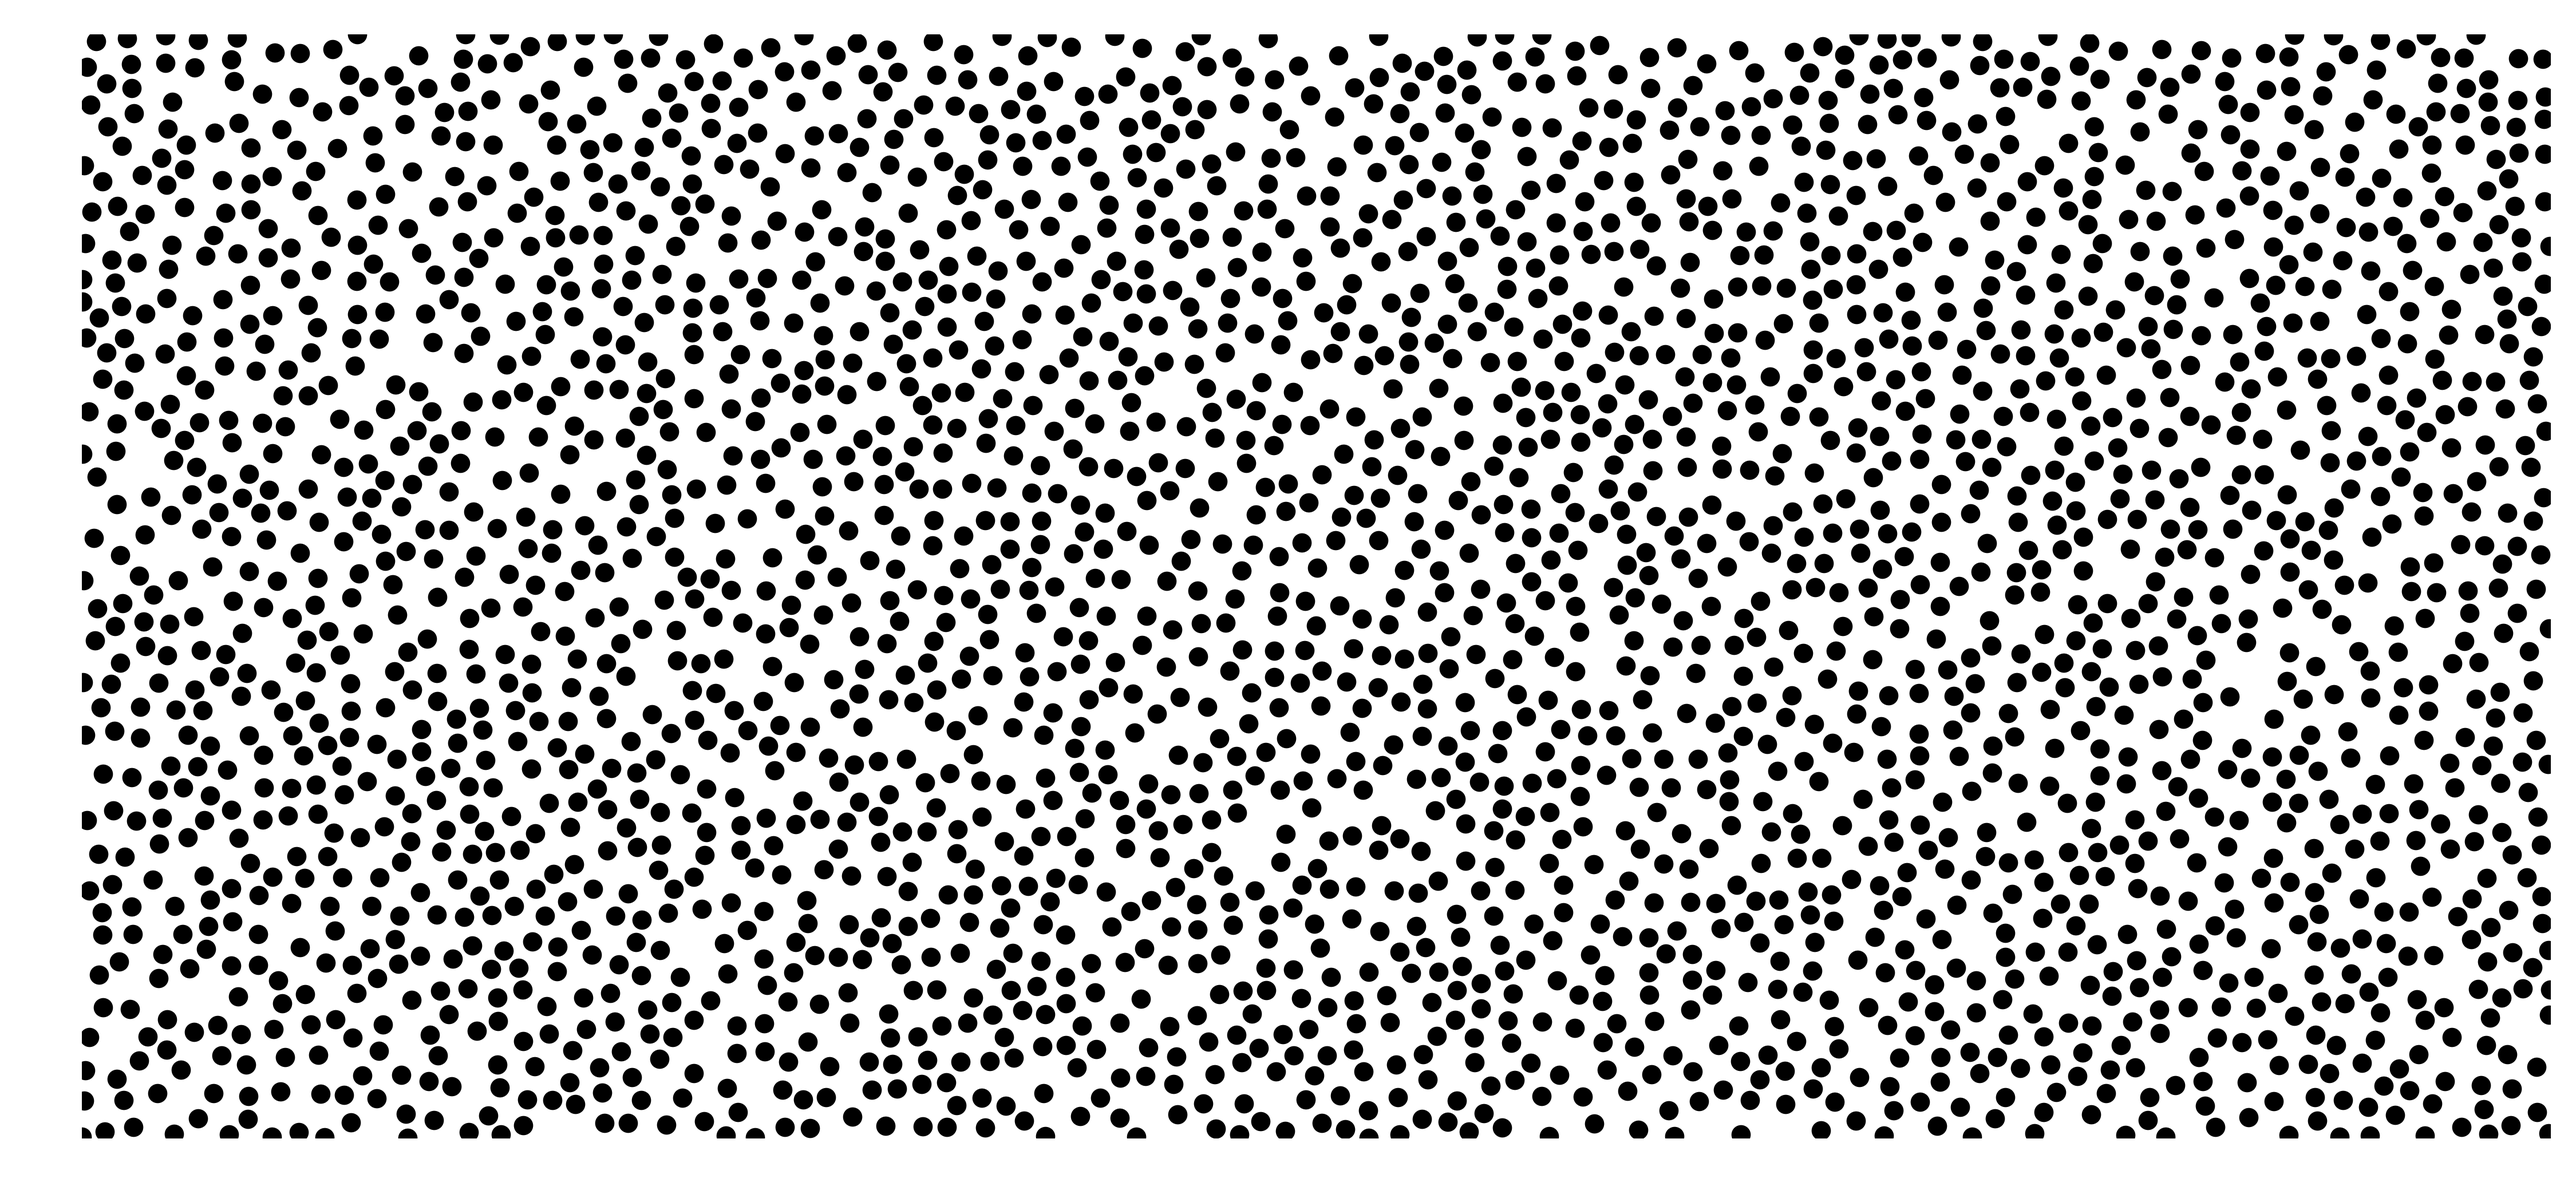
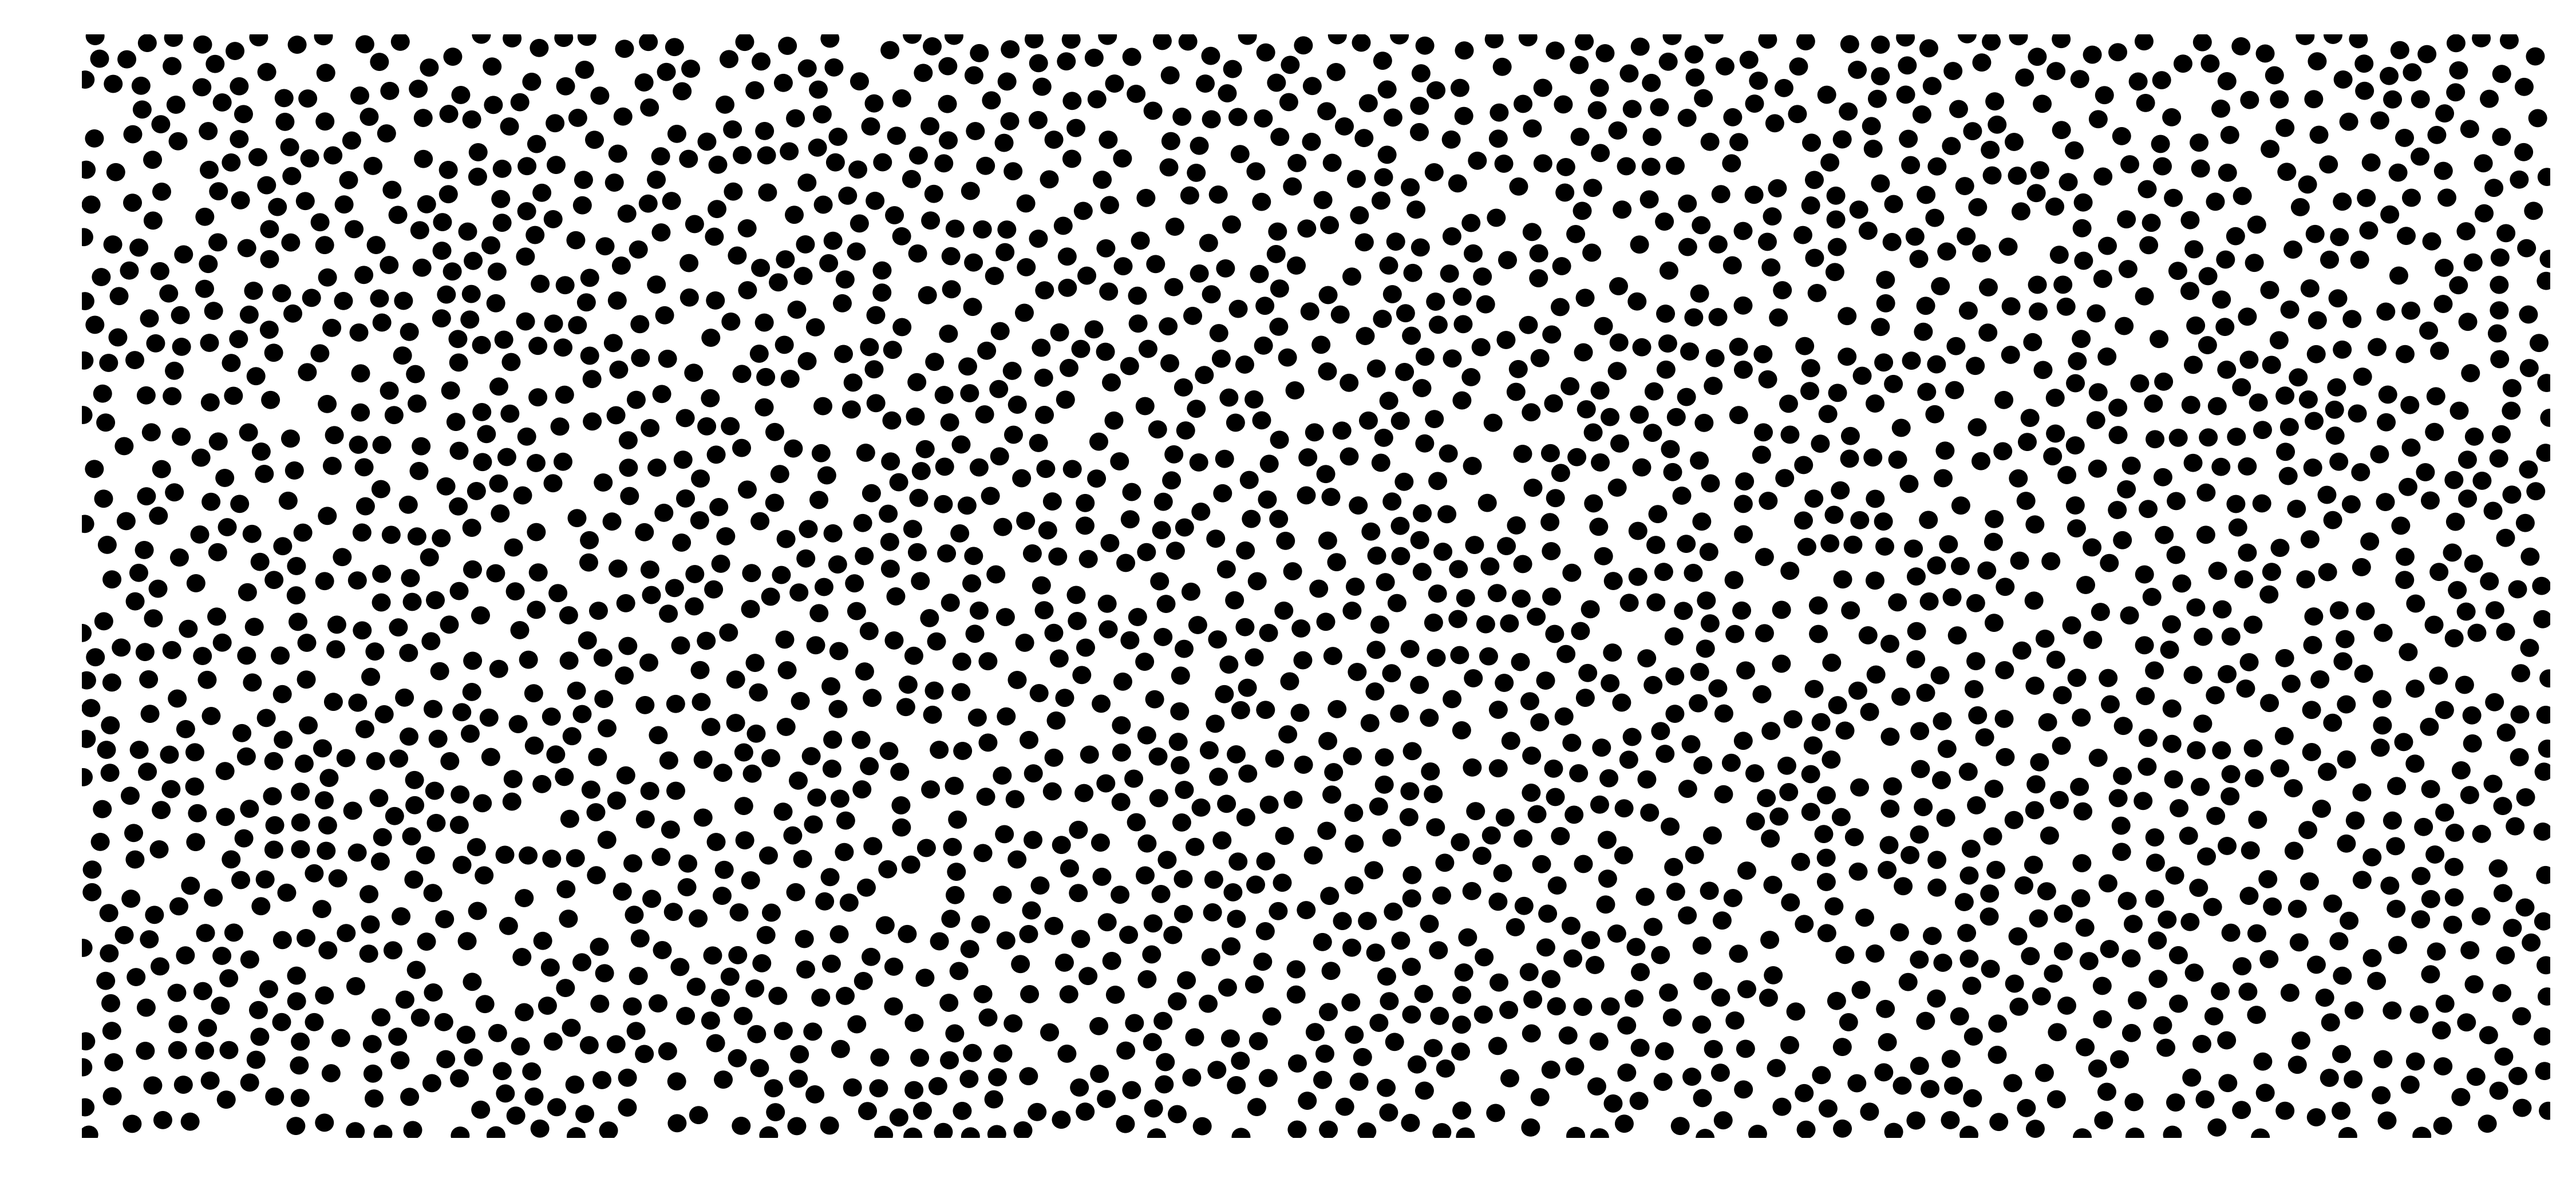
Add a test for GoC position generation

diff --git a/pop_gen_test.py b/pop_gen_test.py
@@ -1,7 +1,10 @@
 # %%
+%load_ext autoreload
+%autoreload 2
 import numpy as np
 from neuron import h
-import pds_plots as pl
+import pds_plots as ppl
+import matplotlib.pyplot as plt
 from pop_generation.mf_generation import Bridson_sampling_2d
 
 h.load_file('test_merge/set3005/Parameters.hoc')
@@ -20,10 +23,8 @@ def compute_mf_params(h):
     Xinstantiate = 64 + 40  # 297+40
     Yinstantiate = 84 + 40 * box_fac  # 474+40x*box_fac
 
-
     n_mf = int((Transverse_range + (2 * Xinstantiate)) * (Horizontal_range + (2 * Yinstantiate)) * MFdensity * 1e-6)
     return ((Horizontal_range, Transverse_range), n_mf)
-
 
 mf_box, n_mf = compute_mf_params(h)
 
@@ -32,5 +33,68 @@ spacing_mf = 14
 mf_points = Bridson_sampling_2d(mf_box, spacing_mf, n_mf, True)
 
 # %%
-pl.plot_mf_1(mf_points, mf_box)
-pl.plot_mf_2(mf_points, mf_box)
+ppl.plot_mf_1(mf_points, mf_box, 5)
+ppl.plot_mf_2(mf_points, mf_box)
+
+# %%
+def compute_goc_params(h):
+    Transverse_range = h.GoCyrange
+    Horizontal_range = h.GoCxrange
+    Vertical_range = h.GoCzrange
+
+    Volume = Transverse_range * Horizontal_range * Vertical_range
+
+    d_goc = h.GoCdensity
+    n_goc = int(d_goc * Volume * 1e-9)
+    return ((Horizontal_range, Transverse_range, Vertical_range), n_goc)
+
+
+goc_box, n_goc = compute_goc_params(h)
+
+# %%
+# spacing_glo = 6.6-1 #(Billings et al., 2014) Since glomeruli is elipsoid shape, I recalculated based on the spatial occupancy of glomeruli and its density. Also, I subtract 1 cuz I will give Gaussian noise
+# spacing_grc = 6-1 # (Billings et al., 2014) I subtract 1 because I will give Gaussian noise
+
+# #Density of cells (mm^-3)
+# d_goc = 9500  # (Dugue GP et al., 2009)
+# d_glo = 6.6 * 1e5 #(Billings et al., 2014)
+# d_grc = 1.9 * 1e6 #(Billings et al., 2014)
+
+spacing_goc = 32 #40 #(NH Barmack, V Yakhnitsa, 2008)
+
+from pop_generation.mf_generation import Bridson_sampling_first
+goc_points = Bridson_sampling_first(goc_box, spacing_goc, n_goc, True)
+goc_points = goc_points + np.random.normal(0, 1, size=(len(goc_points), 3)) #Gaussian noise
+
+# %%
+ppl.plot_goc(goc_points, goc_box, np.array([0, 20])+100, 12)
+
+# %%
+plt.hist(goc_points[:, 2], 50)
+
+#%%
+print(n_goc, ' ', goc_points.shape[0])
+
+#%%
+def compute_glo_params(h):
+    Transverse_range = h.MFyrange//3
+    Horizontal_range = h.MFxrange
+    Vertical_range = h.GLdepth
+    Volume = Transverse_range * Horizontal_range * Vertical_range
+
+    MFdensity = h.MFdensity
+
+    box_fac = 2.5
+    Xinstantiate = 64 + 40  # 297+40
+    Yinstantiate = 84 + 40 * box_fac  # 474+40x*box_fac
+
+    n_mf = int((Transverse_range + (2 * Xinstantiate)) * (Horizontal_range + (2 * Yinstantiate)) * MFdensity * 1e-6)
+    return ((Horizontal_range, Transverse_range), n_mf)
+
+#Glomerulus (Rosettes)
+glo_points = Bridson_sampling_second((Horizontal_range//3, Transverse_range, Vertical_range), spacing_glo, n_glo, True, goc_points)
+
+    #Since glomerulus is stretched for Horizontal section, we will generate coordinates in small area at first, and then multiply it with 3. (Billings et al., 2014)
+glo_points[:, 0] = glo_points[:, 0]*3
+glo_points = glo_points+np.random.normal(0, 1, size=(len(glo_points), 3))
+np.savetxt('glo_coordinates.txt', glo_points)

diff --git a/generation_main.py b/generation_main.py
@@ -1,0 +1,62 @@
+from first_generation import Bridson_sampling_first
+from second_generation import Bridson_sampling_second
+from third_generation import Bridson_sampling_third
+from mf_generation import Bridson_sampling_mf
+import numpy as np
+
+# Network Architecture Size
+Transverse_range = 1500
+Horizontal_range = 700
+Vertical_range = 200
+Volume = Transverse_range * Horizontal_range * Vertical_range
+
+#Mossy Fiber Info
+MFdensity = 1650
+box_fac = 2.5
+Xinstantiate = 64 + 40  # 297+40
+Yinstantiate = 84 + 40 * box_fac  # 474+40x*box_fac
+
+#Minimum distance with the same cell (It does not mean a minimum distance with other type of cell)
+spacing_mf = 8
+spacing_goc = 40 #(NH Barmack, V Yakhnitsa, 2008)
+spacing_glo = 6.6-1 #(Billings et al., 2014) Since glomeruli is elipsoid shape, I recalculated based on the spatial occupancy of glomeruli and its density. Also, I subtract 1 cuz I will give Gaussian noise
+spacing_grc = 6-1 # (Billings et al., 2014) I subtract 1 because I will give Gaussian noise
+
+#Density of cells (mm^-3)
+d_goc = 9500  # (Dugue GP et al., 2009)
+d_glo = 6.6 * 1e5 #(Billings et al., 2014)
+d_grc = 1.9 * 1e6 #(Billings et al., 2014)
+
+#Number of cells
+n_mf = int((Transverse_range + (2 * Xinstantiate)) * (Horizontal_range + (2 * Yinstantiate)) * MFdensity * 1e-6)
+n_goc = int(d_goc * Volume * 1e-9)
+n_glo = int(d_glo * Volume * 1e-9)
+n_grc = int(d_grc * Volume * 1e-9)
+
+##Points Generation
+
+#Mossy fiber
+mf_points = Bridson_sampling_mf((Horizontal_range, Transverse_range), spacing_mf, n_mf, True)
+mf_points = np.hstack((mf_points, np.reshape(np.random.uniform(50, 150, len(mf_points)), (-1, 1)))) # Randomly make z coordinates
+np.savetxt('mf_coordinates.txt', mf_points)
+
+#Golgi Cell
+goc_points = Bridson_sampling_first((Horizontal_range, Transverse_range, Vertical_range), spacing_goc, n_goc, True)
+goc_points = goc_points + np.random.normal(0, 1, size=(len(goc_points), 3)) #Gaussian noise
+np.savetxt('goc_coordinates.txt', goc_points)
+
+#Glomerulus (Rosettes)
+glo_points = Bridson_sampling_second((Horizontal_range//3, Transverse_range, Vertical_range), spacing_glo, n_glo, True, goc_points)
+
+    #Since glomerulus is stretched for Horizontal section, we will generate coordinates in small area at first, and then multiply it with 3. (Billings et al., 2014)
+glo_points[:, 0] = glo_points[:, 0]*3
+glo_points = glo_points+np.random.normal(0, 1, size=(len(glo_points), 3))
+np.savetxt('glo_coordinates.txt', glo_points)
+
+#Granular Cell
+grc_points = Bridson_sampling_third((Horizontal_range, Transverse_range, Vertical_range), spacing_grc, n_grc, True, goc_points, glo_points)
+grc_points = grc_points+np.random.normal(0, 1, size=(len(grc_points), 3))
+np.savetxt('grc_coordinates.txt', grc_points)
+
+
+

diff --git a/pds_plots.py b/pds_plots.py
@@ -1,16 +1,24 @@
+import numpy as np
 import matplotlib.pyplot as plt
+from matplotlib.patches import Circle
 
-def plot_mf_1(mf_points, box):
+def plot_circles(mf_points, box, r):
     Horizontal_range, Transverse_range = box
     _, ax = plt.subplots(figsize=(15, 7))
-    ax.scatter(mf_points[:, 0], mf_points[:, 1], 50, 'k')
+    for p in mf_points:
+        ax.add_artist(Circle((p[0], p[1]), radius=r, color='k'))
+    # ax.scatter(mf_points[:, 0], mf_points[:, 1], 50, 'k')
     ax.set(xlim=[0, Horizontal_range],
         ylim=[0, Transverse_range])
 
     plt.axis('off')
     plt.tight_layout()
+
+def plot_mf_1(mf_points, box, r):
+    plot_circles(mf_points, box, r)
     plt.savefig('mf.png', dpi=300)
     # plt.show()
+
 
 def plot_mf_2(mf_points, box):
     from scipy.spatial import Voronoi, voronoi_plot_2d
@@ -26,3 +34,10 @@ def plot_mf_2(mf_points, box):
     plt.savefig('mf_vor.png', dpi=300)
 
 
+def plot_goc(points, box, slice, r):
+    z = points[:, 2]
+    indc = np.logical_and(z>slice[0], z<slice[1])
+    spoints = points[indc, :]
+    plot_circles(spoints[:,:2], box[:2], r)
+    plt.savefig('goc.png', dpi=300)
+    # plt.show()

diff --git a/pop_generation/mf_generation.py b/pop_generation/mf_generation.py
@@ -21,7 +21,7 @@ def make_3d_grid(sizeI, cellsize):
 def Bridson_sampling_1(fgrid, sizeI, spacing, nPts, showIter):
     ndim = len(sizeI)
     cellsize = spacing / np.sqrt(ndim)
-    k = 5
+    # k = 5
     dartFactor = 4
 
     # Make grid size such that there is just one pt in each grid
@@ -30,9 +30,6 @@ def Bridson_sampling_1(fgrid, sizeI, spacing, nPts, showIter):
     # Make a grid and convert it into a nx3 array
     # sGrid_nd = np.mgrid[0:sizeI[i]:cellsize for i in range(ndim)]
     sGrid_nd = fgrid(sizeI, cellsize)
-
-    # patchwork
-    # sGrid_nd_1 =
 
     sGrid = np.array([sGrid_nd[i][:].flatten() for i in range(ndim)]).T
     del (sGrid_nd)
@@ -124,6 +121,6 @@ def Bridson_sampling_1(fgrid, sizeI, spacing, nPts, showIter):
 Bridson_sampling_2d = partial(Bridson_sampling_1,
                               make_2d_grid)
 
-Bridson_sampling_firstp = partial(Bridson_sampling_1,
+Bridson_sampling_first = partial(Bridson_sampling_1,
                                  make_3d_grid)
 

diff --git a/pop_generation/second_generation.py b/pop_generation/second_generation.py
@@ -22,7 +22,7 @@ def Bridson_sampling_second(sizeI, spacing, nPts, showIter, pts1):
     #Setting properties of iterati
     ndim = len(sizeI)
     cellsize = spacing / np.sqrt(ndim)
-    k = 5
+    # k = 5
     dartFactor = 4
 
     #Make grid size such that there is just one pt in each grid
@@ -183,4 +183,3 @@ def Bridson_sampling_second(sizeI, spacing, nPts, showIter, pts1):
      # ax1.set_xlabel('X')
      # ax1.set_ylabel('Y')
      # ax1.set_zlabel('Z')
-
